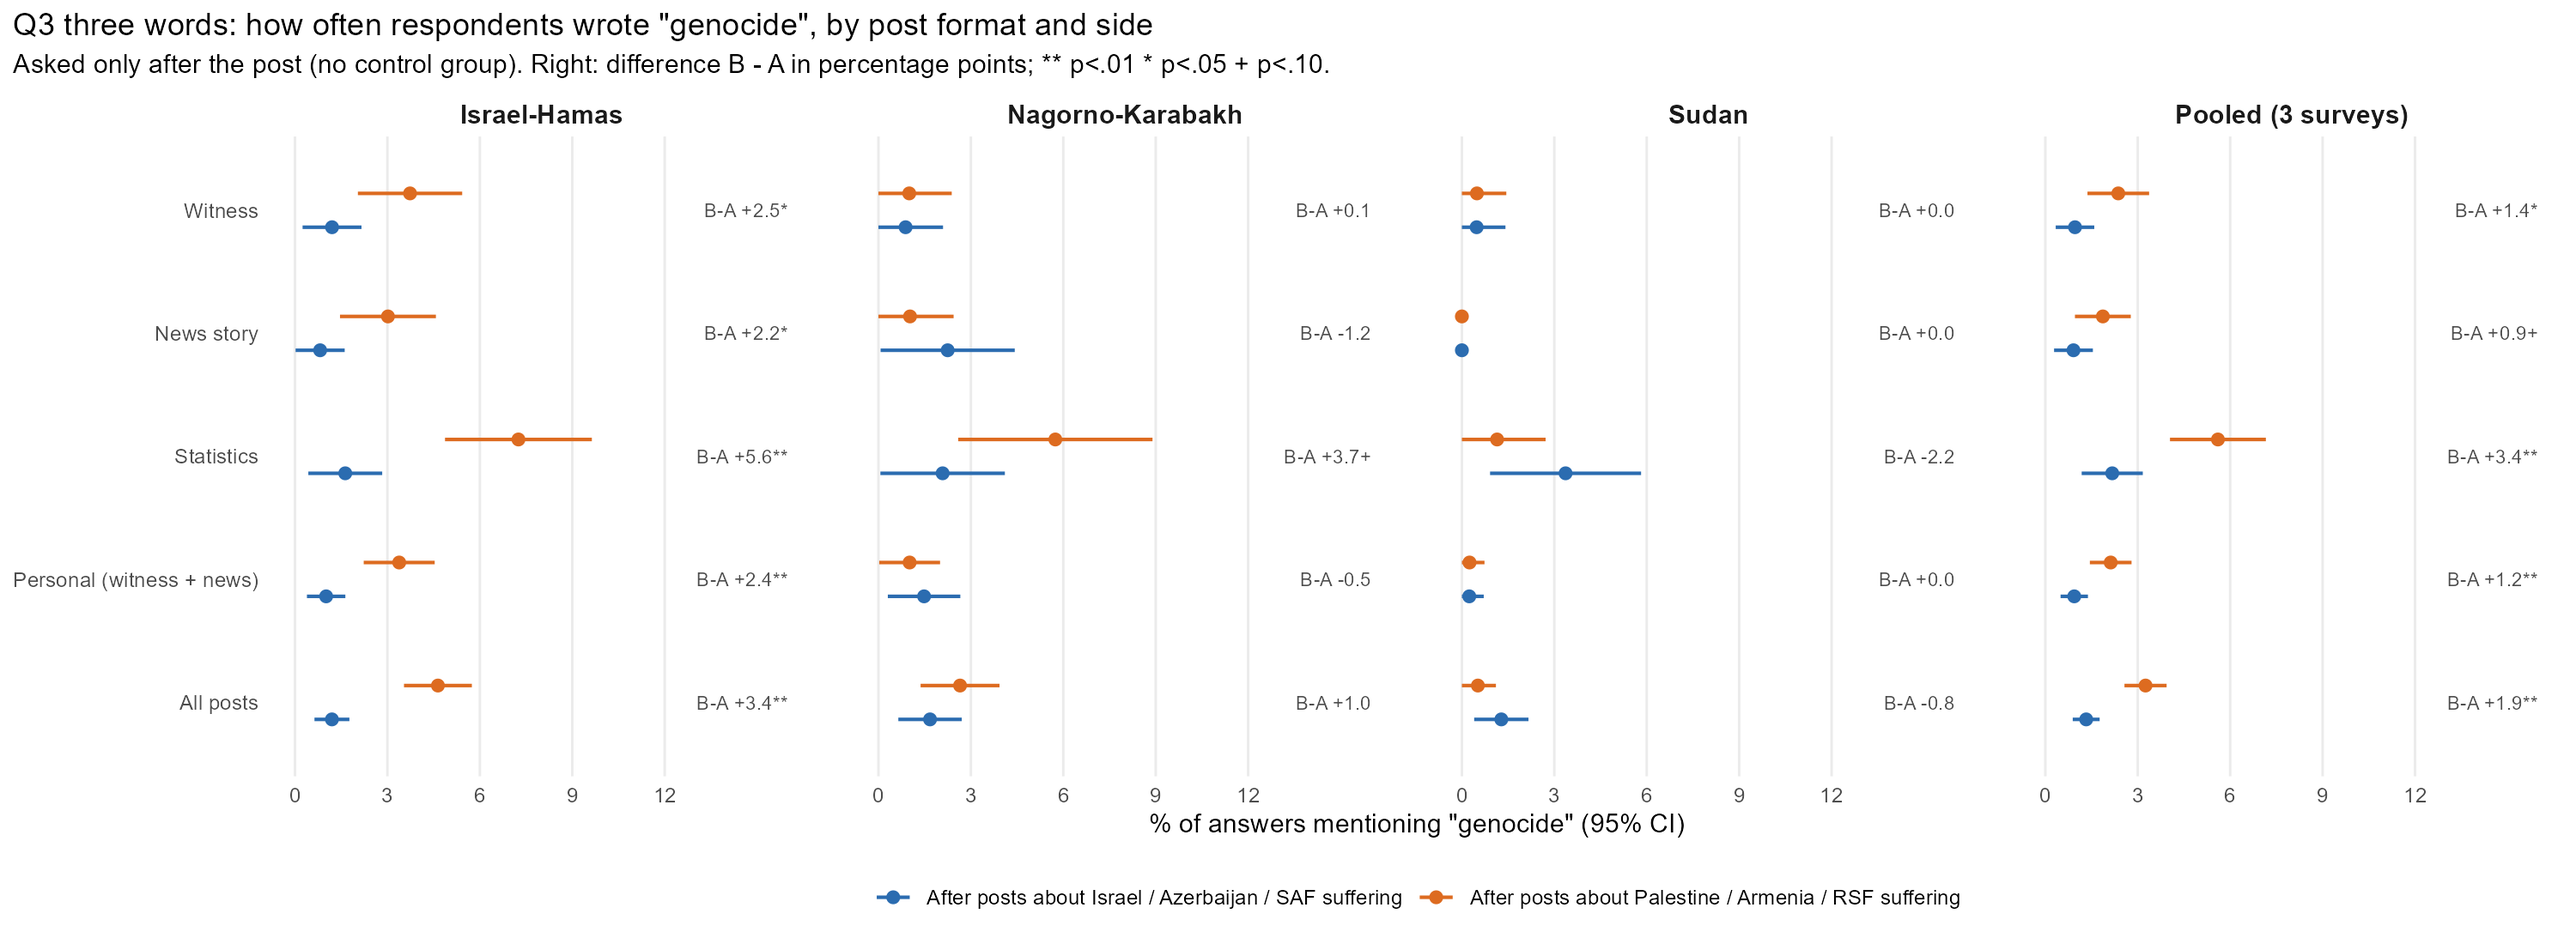
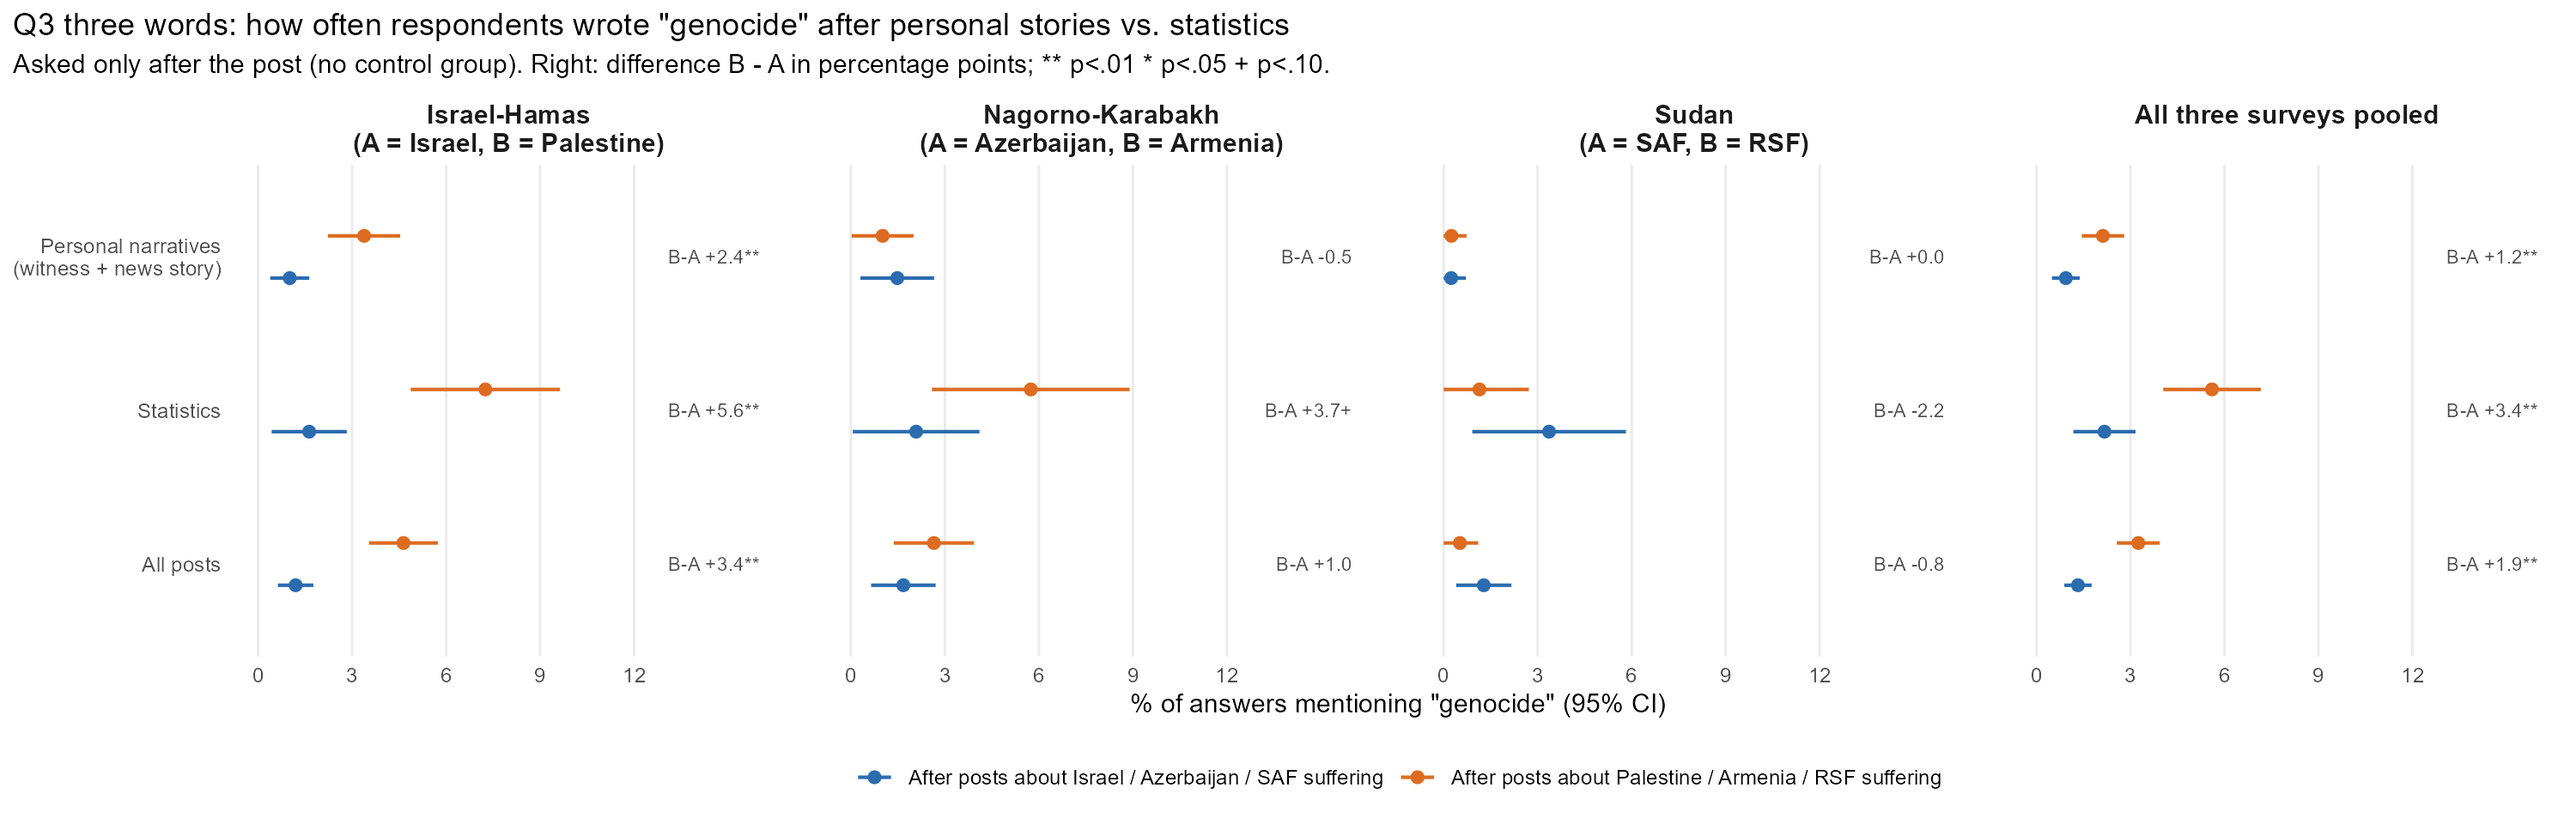
Genocide mentions: show all three surveys and pooled at once
Dashboard section and static figure now show Israel-Hamas, Nagorno-
Karabakh, Sudan and the pooled estimate side by side, comparing personal
narratives (witness + news story pooled), statistics and all posts.

diff --git a/Three Conflict Analysis/Claude Reanalysis/dashboard.html b/Three Conflict Analysis/Claude Reanalysis/dashboard.html
@@ -185,13 +185,15 @@ svg text{font-family:system-ui,sans-serif}
 
 <section id="genocide">
   <div class="sh">Mentions of “genocide” in the three words</div>
-  <p class="lead">Share of respondents who wrote “genocide” (or “genocidal”) among their three words, after posts about each side, by post format. Q3 was asked only after the post, so there is <b>no control group</b>: the comparison is between posts about the two sides. The right-hand number in the table is the difference (posts about <span class="nmB"></span> minus posts about <span class="nmA"></span>).</p>
+  <p class="lead">Share of respondents who wrote “genocide” (or “genocidal”) among their three words, after posts about each side. Shown for <b>each survey separately and all three pooled</b> (this section does not change with the survey tabs). <b>Personal narratives</b> pool the witness and news-story posts; <b>statistics</b> are the statistics posts. Q3 was asked only after the post, so there is <b>no control group</b>: the comparison is between posts about the two sides (B − A in the table).</p>
+  <div class="lgd"><div class="li"><div class="ld" style="background:var(--sa)"></div>Posts about Israel / Azerbaijan / SAF suffering (A)</div><div class="li"><div class="ld" style="background:var(--sb)"></div>Posts about Palestine / Armenia / RSF suffering (B)</div></div>
   <div class="grid2">
-    <div class="card"><div class="clbl" id="gen-t1" style="margin-bottom:4px"></div><svg id="gen-c1" width="100%" style="display:block"></svg></div>
-    <div class="card"><div class="clbl" style="margin-bottom:4px">All three surveys pooled</div><svg id="gen-c2" width="100%" style="display:block"></svg></div>
+    <div class="card"><div class="clbl" style="margin-bottom:4px">Israel-Hamas (A = Israel, B = Palestine)</div><svg id="gen-c-ih" width="100%" style="display:block"></svg></div>
+    <div class="card"><div class="clbl" style="margin-bottom:4px">Nagorno-Karabakh (A = Azerbaijan, B = Armenia)</div><svg id="gen-c-nk" width="100%" style="display:block"></svg></div>
+    <div class="card"><div class="clbl" style="margin-bottom:4px">Sudan (A = SAF, B = RSF)</div><svg id="gen-c-sudan" width="100%" style="display:block"></svg></div>
+    <div class="card"><div class="clbl" style="margin-bottom:4px">All three surveys pooled</div><svg id="gen-c-pooled" width="100%" style="display:block"></svg></div>
   </div>
-  <div class="lgd" style="margin-top:8px"><div class="li"><div class="ld" style="background:var(--sa)"></div><span class="nmA2"></span></div><div class="li"><div class="ld" style="background:var(--sb)"></div><span class="nmB2"></span></div></div>
-  <div class="card"><table class="tbl"><thead><tr><th>Post format</th><th class="num" id="gen-hA"></th><th class="num" id="gen-hB"></th><th class="num">Difference</th><th class="num">p</th><th class="num">Pooled difference</th><th class="num">p</th></tr></thead><tbody id="gen-body"></tbody></table></div>
+  <div class="card" style="margin-top:10px"><table class="tbl"><thead><tr><th>Survey</th><th>Posts</th><th class="num">A posts</th><th class="num">B posts</th><th class="num">B − A</th><th class="num">p</th></tr></thead><tbody id="gen-body"></tbody></table></div>
   <p class="note">Difference tested with robust SEs; pooled across surveys with survey fixed effects and SEs clustered by participant. Counts are small (11–82 mentions per survey), so differences between single formats within a survey are rough. From 09_open_text.R; static figure in plots/TEXT_genocide_mentions.png.</p>
 </section>
 
@@ -524,23 +526,33 @@ function renderWords(){
 }
 
 // ── "genocide" mentions in Q3 ───────────────────────────────────────────
+// All three surveys and the pooled estimate at once (independent of the survey tabs).
+// Rows: personal narratives (witness + news story pooled), statistics, all posts.
+const GEN_GROUPS = [['Personal (witness + news)', 'Personal narratives (witness + news story)'], ['Statistics', 'Statistics'], ['All posts', 'All posts']];
 function renderGenocide(){
-  const sec = document.getElementById('genocide'), g = S().genocide, gp = DATA.genocide_pooled;
-  if (!g || !g.length) { sec.style.display = 'none'; return; }
+  const sec = document.getElementById('genocide');
+  const panels = [['ih', DATA.surveys.ih && DATA.surveys.ih.genocide, 'Israel-Hamas', NAMES.ih],
+                  ['nk', DATA.surveys.nk && DATA.surveys.nk.genocide, 'Nagorno-Karabakh', NAMES.nk],
+                  ['sudan', DATA.surveys.sudan && DATA.surveys.sudan.genocide, 'Sudan', NAMES.sudan],
+                  ['pooled', DATA.genocide_pooled, 'All three pooled', {A: 'Israel / Azerbaijan / SAF', B: 'Palestine / Armenia / RSF'}]];
+  if (!panels[0][1] || !panels[0][1].length) { sec.style.display = 'none'; return; }
   sec.style.display = '';
-  document.getElementById('gen-t1').textContent = `${S().title} survey`;
-  const toRows = arr => arr.map(r => ({label: r.group, series: [
-    {m: r.share_A, lo: Math.max(0, r.share_A - 1.96 * r.se_A), hi: r.share_A + 1.96 * r.se_A, n: r.n_A, name: `${N().A} posts (${r.k_A} of ${r.n_A})`, color: css('--sa')},
-    {m: r.share_B, lo: Math.max(0, r.share_B - 1.96 * r.se_B), hi: r.share_B + 1.96 * r.se_B, n: r.n_B, name: `${N().B} posts (${r.k_B} of ${r.n_B})`, color: css('--sb')}]}));
-  dotMeans(document.getElementById('gen-c1'), toRows(g), {share: true, labelW: 170});
-  if (gp && gp.length) dotMeans(document.getElementById('gen-c2'), toRows(gp), {share: true, labelW: 170});
-  document.getElementById('gen-hA').textContent = `${N().A} posts`; document.getElementById('gen-hB').textContent = `${N().B} posts`;
-  const cell = r => `${(r * 100).toFixed(1)}%`;
-  document.getElementById('gen-body').innerHTML = g.map(r => {
-    const p = gp ? gp.find(x => x.group === r.group) : null;
-    const d = (v, pv) => `<td class="num ${pv < .05 ? 'sig' : ''}">${(v >= 0 ? '+' : '') + (v * 100).toFixed(1)} pts${stars(pv)}</td><td class="num">${pf(pv)}</td>`;
-    return `<tr><td>${esc(r.group)}</td><td class="num">${cell(r.share_A)} <span class="ci">(${r.k_A}/${r.n_A})</span></td><td class="num">${cell(r.share_B)} <span class="ci">(${r.k_B}/${r.n_B})</span></td>${d(r.diff, r.diff_p)}${p ? d(p.diff, p.diff_p) : '<td></td><td></td>'}</tr>`;
-  }).join('');
+  const pick = arr => GEN_GROUPS.map(([key, lab]) => ({lab, r: arr.find(x => x.group === key)})).filter(x => x.r);
+  let body = '';
+  panels.forEach(([key, arr, title, nm]) => {
+    if (!arr || !arr.length) return;
+    const rows = pick(arr).map(({lab, r}) => ({label: lab.startsWith('Personal') ? 'Witness + news story' : lab, series: [
+      {m: r.share_A, lo: Math.max(0, r.share_A - 1.96 * r.se_A), hi: r.share_A + 1.96 * r.se_A, n: r.n_A, name: `${nm.A} posts (${r.k_A} of ${r.n_A})`, color: css('--sa')},
+      {m: r.share_B, lo: Math.max(0, r.share_B - 1.96 * r.se_B), hi: r.share_B + 1.96 * r.se_B, n: r.n_B, name: `${nm.B} posts (${r.k_B} of ${r.n_B})`, color: css('--sb')}]}));
+    dotMeans(document.getElementById(`gen-c-${key}`), rows, {share: true, labelW: 140});
+    pick(arr).forEach(({lab, r}, i) => {
+      const cell = (p, k, n) => `${(p * 100).toFixed(1)}% <span class="ci">(${k}/${n})</span>`;
+      body += `<tr${i === 0 ? ' style="border-top:2px solid var(--border)"' : ''}><td>${i === 0 ? `<b>${esc(title)}</b>` : ''}</td><td>${esc(lab)}</td>
+        <td class="num">${cell(r.share_A, r.k_A, r.n_A)}</td><td class="num">${cell(r.share_B, r.k_B, r.n_B)}</td>
+        <td class="num ${r.diff_p < .05 ? 'sig' : ''}">${(r.diff >= 0 ? '+' : '') + (r.diff * 100).toFixed(1)} pts${stars(r.diff_p)}</td><td class="num">${pf(r.diff_p)}</td></tr>`;
+    });
+  });
+  document.getElementById('gen-body').innerHTML = body;
 }
 
 function effRows(kind, k){
